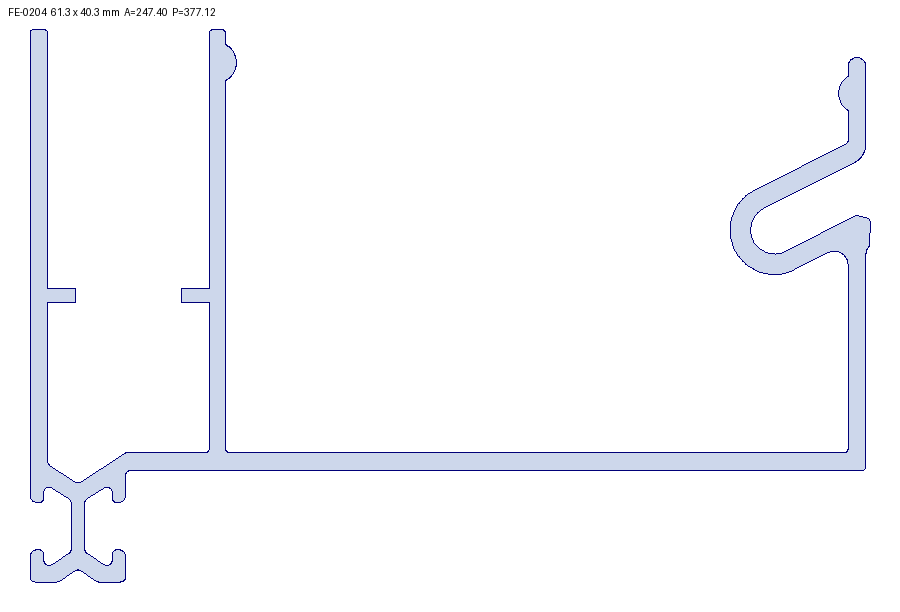
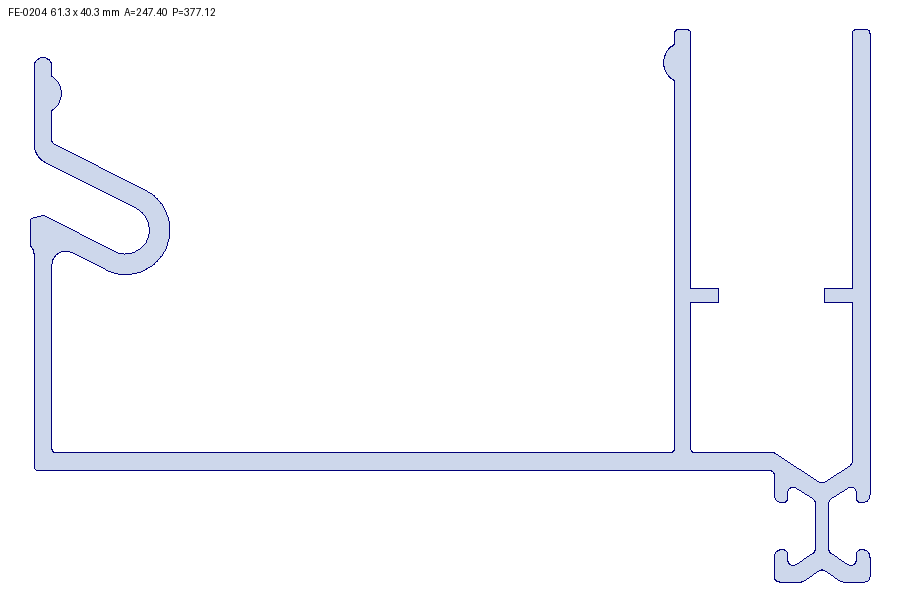
feat(catalogo_tecnico): LT-077 e modulos resistentes Wx Wy calculados pelos DXF

diff --git a/scripts/calcular_propriedades_dxf.py b/scripts/calcular_propriedades_dxf.py
@@ -5,8 +5,8 @@ Uso:
   python scripts/calcular_propriedades_dxf.py SS-108 [FE-0202 ...]   # imprime e gera PNG
   python scripts/calcular_propriedades_dxf.py --csv FE-0202 ...      # tambem grava relatorios/calculo_dxf.csv
   --escala N força o fator para mm (o INSUNITS do DXF pode estar errado: SS-108 diz polegada mas esta em mm)
-  --girados A,B  perfis cujo DXF esta girado 90 graus em relacao a ficha (confira pelas cotas)
-  --jx x|y   Ix calculado (x) ou Iy calculado (y) corresponde ao Jx da ficha
+  --orient COD:modo,...  transformacao do DXF para a orientacao da ficha (ccw, cw, antitransp, ...)
+  --teste    valida as formulas com um retangulo 20x40
 
 DXF em cad-fonte/ARQUIVOS/CALCULO/<CODIGO>.dxf. Contornos fechados vindos de LWPOLYLINE,
 POLYLINE, LINE+ARC encadeados, CIRCLE etc.; furos por contencao (profundidade impar);
@@ -27,6 +27,17 @@ from PIL import Image, ImageDraw
 RAIZ = Path(__file__).resolve().parent.parent
 CALC = RAIZ / "cad-fonte" / "ARQUIVOS" / "CALCULO"
 SAIDA = RAIZ / "relatorios"
+# DXF -> orientacao da ficha (x para a direita, y para cima); reflexoes nao alteram Jx, Jy
+TRANSFORMA = {
+    None: lambda x, y: (x, y),
+    "ccw": lambda x, y: (-y, x),          # gira 90 graus anti-horario
+    "cw": lambda x, y: (y, -x),           # gira 90 graus horario
+    "antitransp": lambda x, y: (-y, -x),  # reflexao pela diagonal secundaria
+    "transp": lambda x, y: (y, x),
+    "espelho_v": lambda x, y: (x, -y),
+    "espelho_h": lambda x, y: (-x, y),
+    "giro180": lambda x, y: (-x, -y),
+}
 ESCALA_UNIDADE = {0: 1.0, 1: 25.4, 2: 304.8, 4: 1.0, 5: 10.0, 6: 1000.0}
 
 
@@ -126,7 +137,7 @@ def propriedades(pts):
     return a * s, sx * s, sy * s, ix * s, iy * s, per
 
 
-def analisar(codigo, escala=None):
+def analisar(codigo, escala=None, orient=None):
     arq = CALC / ("%s.dxf" % codigo)
     doc = ezdxf.readfile(str(arq))
     insunits = doc.header.get("$INSUNITS", 0)
@@ -145,6 +156,17 @@ def analisar(codigo, escala=None):
     if not lacos:
         raise SystemExit("%s: nenhum contorno fechado" % codigo)
     lacos = [[(x * esc, y * esc) for x, y in lc] for lc in lacos]
+    lacos = [[TRANSFORMA[orient](x, y) for x, y in lc] for lc in lacos]
+    r = medidas(lacos)
+    r.update({
+        "codigo": codigo, "insunits": insunits, "escala": esc, "orient": orient,
+        "bbox_raw": (max(xs) - min(xs), max(ys) - min(ys)),
+        "soltas": soltas, "tol_juncao": tol_uso, "ignoradas": sorted(set(ignoradas))})
+    return r
+
+
+def medidas(lacos):
+    """Propriedades da secao (mm, mm4) na orientacao dos pontos dados."""
     prof = []
     for i, lc in enumerate(lacos):
         n = sum(1 for j, o in enumerate(lacos) if j != i and dentro(lc[0], o))
@@ -160,15 +182,32 @@ def analisar(codigo, escala=None):
         IY += sinal * iy
         P += per
     cx, cy = SX / A, SY / A
+    pts = [p for lc in lacos for p in lc]
+    x0, x1 = min(p[0] for p in pts), max(p[0] for p in pts)
+    y0, y1 = min(p[1] for p in pts), max(p[1] for p in pts)
+    ix, iy = IX - A * cy * cy, IY - A * cx * cx
     return {
-        "codigo": codigo, "insunits": insunits, "escala": esc,
-        "bbox_raw": (max(xs) - min(xs), max(ys) - min(ys)),
-        "bbox_mm": ((max(xs) - min(xs)) * esc, (max(ys) - min(ys)) * esc),
-        "area": A, "perimetro": P, "cx": cx, "cy": cy,
-        "ix": IX - A * cy * cy, "iy": IY - A * cx * cx,
+        "bbox_mm": (x1 - x0, y1 - y0), "area": A, "perimetro": P, "cx": cx, "cy": cy,
+        "ix": ix, "iy": iy,
+        "centroide_x_mm": cx - x0, "centroide_y_mm": cy - y0,
+        "wx": ix / max(y1 - cy, cy - y0), "wy": iy / max(x1 - cx, cx - x0),
         "contornos": sum(1 for n in prof if n % 2 == 0), "furos": sum(1 for n in prof if n % 2 == 1),
-        "soltas": soltas, "tol_juncao": tol_uso, "ignoradas": sorted(set(ignoradas)), "lacos": lacos, "prof": prof,
+        "lacos": lacos, "prof": prof,
     }
+
+
+def teste_retangulo():
+    """Caso analitico: retangulo b x h = 20 x 40 -> Ix = b h^3/12, Wx = b h^2/6, Wy = h b^2/6."""
+    b, h = 20.0, 40.0
+    r = medidas([[(5, 7), (5 + b, 7), (5 + b, 7 + h), (5, 7 + h)]])
+    esp = {"area": b * h, "perimetro": 2 * (b + h), "ix": b * h ** 3 / 12, "iy": h * b ** 3 / 12,
+           "wx": b * h * h / 6, "wy": h * b * b / 6, "centroide_x_mm": b / 2, "centroide_y_mm": h / 2}
+    ok = True
+    for k, v in esp.items():
+        ok &= abs(r[k] - v) / v < 1e-9
+        print("  retangulo 20x40 %-15s calc=%.4f analitico=%.4f" % (k, r[k], v))
+    print("teste do retangulo:", "OK" if ok else "DIVERGE")
+    return ok
 
 
 def png(r):
@@ -203,38 +242,39 @@ def ficha(codigo):
 
 def main():
     args = sys.argv[1:]
+    if "--teste" in args:
+        sys.exit(0 if teste_retangulo() else 1)
     gravar = "--csv" in args
-    eixo = "x"  # convencao: Jx da ficha = Ix calculado (x) ou Iy calculado (y)
-    if "--jx" in args:
-        eixo = args[args.index("--jx") + 1]
-    girados = args[args.index("--girados") + 1].split(",") if "--girados" in args else []
+    # --orient FE-0202:antitransp,LT-077:ccw  (transformacao do DXF para a orientacao da ficha)
+    orient = dict(i.split(":") for i in args[args.index("--orient") + 1].split(",")) if "--orient" in args else {}
     escala = float(args[args.index("--escala") + 1]) if "--escala" in args else None
     codigos = list(dict.fromkeys(a for a in args if re.match(r"^[A-Za-z]{2,3}-\d+$", a)))
     linhas = []
     for c in codigos:
-        r = analisar(c, escala)
+        r = analisar(c, escala, orient.get(c))
         png(r)
-        # --girados: DXF desenhado girado 90 graus em relacao a ficha (troca Ix e Iy)
-        troca = (eixo == "y") != (c in girados)
-        jx, jy = (r["iy"], r["ix"]) if troca else (r["ix"], r["iy"])
-        print("%s INSUNITS=%s escala=%s bbox_raw=%.3f x %.3f bbox_mm=%.2f x %.2f" % (
-            c, r["insunits"], r["escala"], *r["bbox_raw"], *r["bbox_mm"]))
-        print("  area=%.2f perimetro=%.2f centroide=(%.3f, %.3f) Ix=%.2f Iy=%.2f contornos=%d furos=%d soltas=%d tol_juncao=%.4f ignoradas=%s"
-              % (r["area"], r["perimetro"], r["cx"], r["cy"], r["ix"], r["iy"], r["contornos"], r["furos"],
-                 r["soltas"], r["tol_juncao"], r["ignoradas"]))
+        print("%s INSUNITS=%s escala=%s orient=%s bbox_raw=%.3f x %.3f bbox_mm=%.2f x %.2f" % (
+            c, r["insunits"], r["escala"], r["orient"], *r["bbox_raw"], *r["bbox_mm"]))
+        print("  area=%.2f perimetro=%.2f centroide=(%.3f, %.3f) Jx=%.2f Jy=%.2f Wx=%.2f Wy=%.2f "
+              "contornos=%d furos=%d soltas=%d tol_juncao=%.4f ignoradas=%s"
+              % (r["area"], r["perimetro"], r["centroide_x_mm"], r["centroide_y_mm"], r["ix"], r["iy"],
+                 r["wx"], r["wy"], r["contornos"], r["furos"], r["soltas"], r["tol_juncao"], r["ignoradas"]))
         f = ficha(c)
         af, pf = f.get("superficie_area_mm2_mml"), f.get("superficie_perimetro_mm2_mml")
         dif = (r["area"] - af) / af * 100 if af else None
         status = "OK" if dif is not None and abs(dif) < 2 and not r["soltas"] else "DIVERGE"
         linhas.append([c, "%.2f" % r["area"], af if af is not None else "", "" if dif is None else "%.2f" % dif,
-                       "%.2f" % r["perimetro"], pf if pf is not None else "", "%.2f" % jx, "%.2f" % jy,
-                       r["contornos"], r["furos"], r["insunits"],
+                       "%.2f" % r["perimetro"], pf if pf is not None else "", "%.2f" % r["ix"], "%.2f" % r["iy"],
+                       "%.2f" % r["centroide_x_mm"], "%.2f" % r["centroide_y_mm"],
+                       "%.2f" % r["wx"], "%.2f" % r["wy"],
+                       r["contornos"], r["furos"], r["insunits"], r["orient"] or "",
                        "%.2f x %.2f" % r["bbox_mm"], status])
     if gravar:
         with open(SAIDA / "calculo_dxf.csv", "w", encoding="utf-8-sig", newline="") as fh:
             w = csv.writer(fh, delimiter=";")
             w.writerow(["codigo", "area_calc", "area_ficha", "dif_area_%", "perim_calc", "perim_ficha",
-                        "jx_calc", "jy_calc", "contornos", "furos", "insunits", "bbox", "status"])
+                        "jx_calc", "jy_calc", "centroide_x_mm", "centroide_y_mm", "modulo_wx_mm3",
+                        "modulo_wy_mm3", "contornos", "furos", "insunits", "orientacao", "bbox", "status"])
             for l in linhas:
                 w.writerow([str(v).replace(".", ",") for v in l])
 
